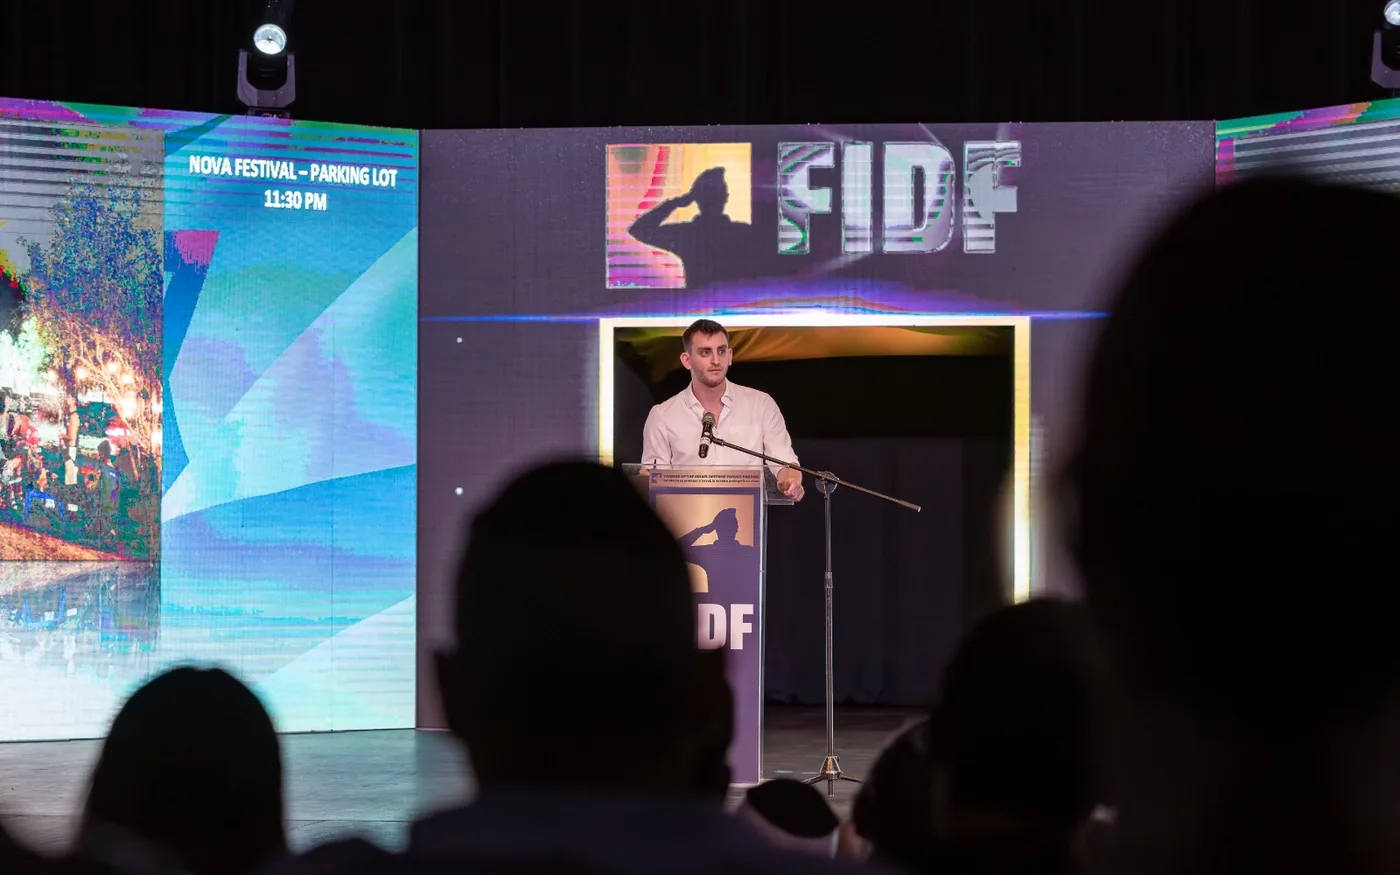
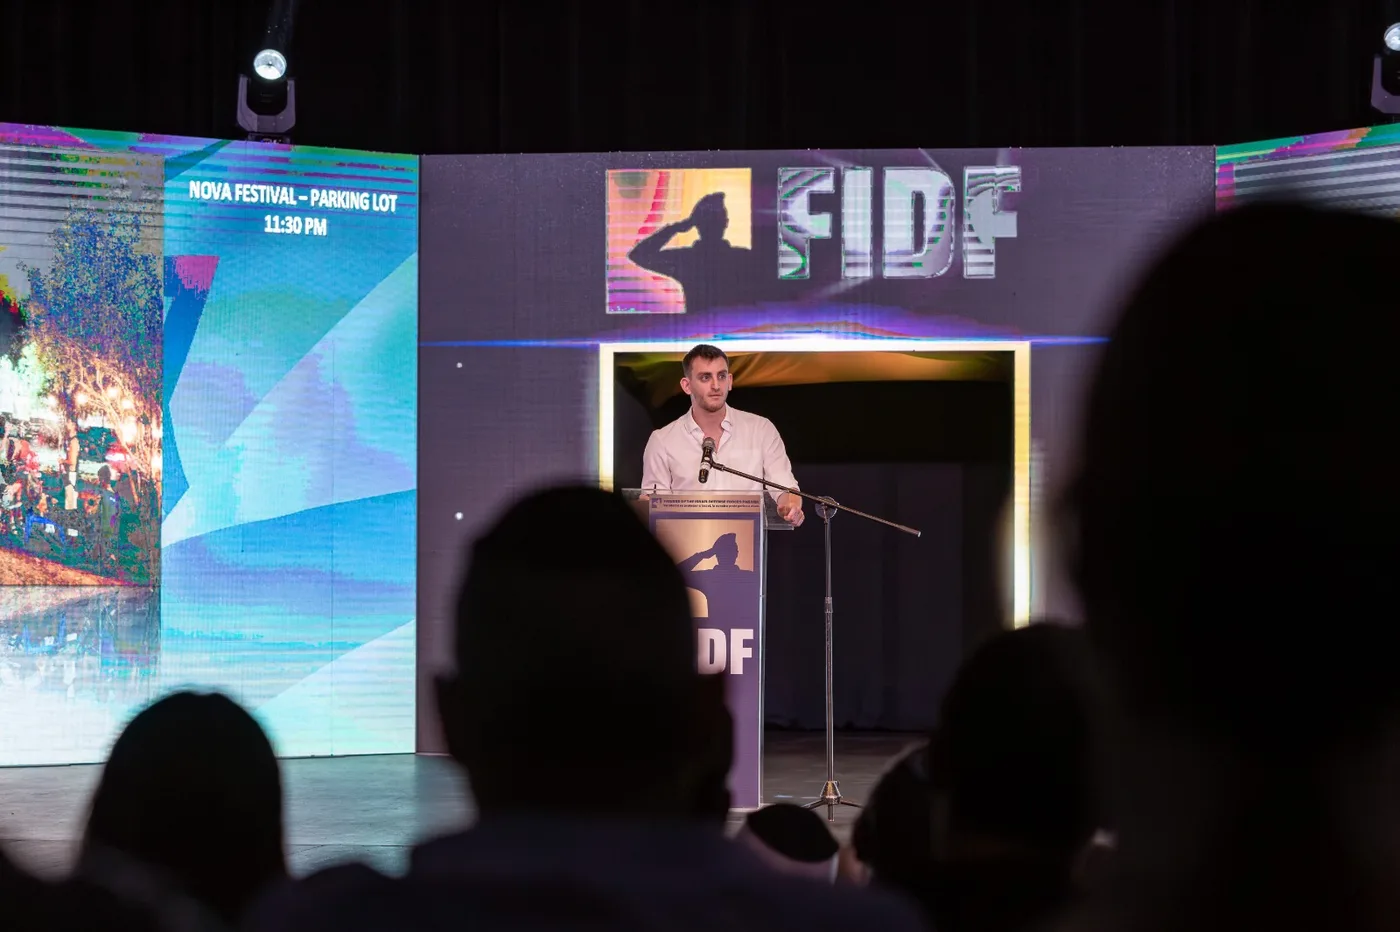
about: photo panels take their photos' real aspect (no cropping) — save v19 re-adopts the cluster; portrait windows show the lead photo only

diff --git a/src/main.js b/src/main.js
@@ -942,8 +942,10 @@ const DEFAULT_BEATS = [
   /* 1 */ { name: 'Hi', stop: 'hi', side: 'left', cam: [1, 53, 33], look: [1, 53, -67], up: [0, 1, 0], fov: 48, dur: 2.1, desc: '', img: '/assets/me/portrait.webp', link: '', fx: { ...VOID_FX }, panel: (() => { const p = P(1, 53, 33, 'left'); p.size = [16, 21.3]; p.pos[1] = 53; return p; })() },
   /* 2 */ { name: 'About', stop: 'about', side: 'right', ease: 'easeOut', cam: [6, 12, 5], look: [6, 12, -95], up: [0, 1, 0], fov: 48, dur: 2.4, desc: '', img: '', link: '', fx: { ...VOID_FX }, panel: null,
            panels: [
-             { img: '/assets/me/speaking-1.webp', ...P(6, 12, 5, 'right') },
-             { img: '/assets/me/speaking-2.webp', ...mkPanel(24, 2, -36, 13, 8.1, [0, -16, 0]) },
+             // v19 (2026-09-16): each panel takes its photo's real aspect so nothing is cropped —
+             // stage 3:2 (28×18.67), memorial 3:4 (8.4×11.2, portrait), lectern detail 16:10
+             { img: '/assets/me/speaking-1.webp', ...(() => { const p = P(6, 12, 5, 'right'); p.size = [28, 18.67]; return p; })() },
+             { img: '/assets/me/speaking-2.webp', ...mkPanel(26, 1.2, -36, 8.4, 11.2, [0, -16, 0]) },
              { img: '/assets/me/speaking-3.webp', ...mkPanel(12, 3, -30, 11, 6.9, [0, -8, 0]) },
            ] },
   /* 3 */ { name: 'Timeline', stop: 'timeline', screens: true, cam: [-8, 8, -21], look: [26, 20, -71], up: [0, 1, 0], fov: 60, dur: 1.6, desc: '', img: '', link: '', fx: { ...VOID_FX }, panel: null },
@@ -1068,6 +1070,13 @@ function load() {
           beats = structuredClone(DEFAULT_BEATS);
           migrated = true;
         }
+        if (!(d.version >= 19)) {
+          // v19 (2026-09-16): About's photo panels take their photos' real aspect
+          // (the memorial shot is portrait). Only the About cluster is re-adopted.
+          const src = DEFAULT_BEATS.find((b) => b.stop === 'about');
+          for (const b of beats) if (b.stop === 'about' && src) b.panels = structuredClone(src.panels);
+          migrated = true;
+        }
         beats.forEach(backfillBeat); // bring older saves up to the current schema
         if (migrated) save();
         return;
@@ -1079,7 +1088,7 @@ function load() {
 }
 function save() {
   const g = {}; for (const k of GLOBAL_KEYS) g[k] = FX[k]; g.ease = txEaseName;
-  try { localStorage.setItem(SAVE_KEY, JSON.stringify({ beats, speed: speedMul, smooth, g, version: 18 })); }
+  try { localStorage.setItem(SAVE_KEY, JSON.stringify({ beats, speed: speedMul, smooth, g, version: 19 })); }
   catch (e) { console.warn('[save]', e); }   // private mode / quota: never let a failed write abort the boot
 }
 // push the global (saved) FX/UX/transition state into the live scene + DOM
@@ -1305,6 +1314,7 @@ function rebuildPanels() {
     for (const x of b.panels || []) {
       if (IS_TOUCH && x !== b.panels[0]) continue;   // phones: the largest photo only
       const mesh = makePanelMesh({ img: x.img, img2: '', panel: x }, i);   // pseudo-beat: drawPanelCanvas reads img + panel
+      mesh.userData.lead = x === b.panels[0];   // the cluster's largest photo — the only one portrait windows show
       panelGroup.add(mesh); extraPanelMeshes.push(mesh);
     }
   });
@@ -2870,8 +2880,10 @@ function animate() {
     if (editMode) { m.material.opacity = 1; m.scale.setScalar(1); }
     else {
       let a = clamp(1 - (camera.position.distanceTo(m.position) - 90) / curFX.panelLightRange, 0, 1); // near = lit
-      if (extra) a *= clamp(1 - Math.abs(_pIdx - m.userData.i), 0, 1);   // a `panels[]` cluster belongs to one stop: fade with it, never bleed into the neighbours
-      else a *= clamp(2 - 2 * Math.abs(_pIdx - i), 0, 1);   // a stop's own panel: full from halfway through the hop in, fully off at any neighbour (the next stop's panel, 115 units on, used to ghost through at ≈ 4 %)
+      if (extra) {
+        a *= clamp(1 - Math.abs(_pIdx - m.userData.i), 0, 1);   // a `panels[]` cluster belongs to one stop: fade with it, never bleed into the neighbours
+        if (!m.userData.lead && isPortrait()) a = 0;             // portrait windows keep the lead photo only (touch never builds the others) — the small ones sat on the About title
+      } else a *= clamp(2 - 2 * Math.abs(_pIdx - i), 0, 1);      // a stop's own panel: full from halfway through the hop in, fully off at any neighbour (the next stop's panel, 115 units on, used to ghost through at ≈ 4 %)
       m.material.opacity = curFX.panelDimFloor + (1 - curFX.panelDimFloor) * a;
       m.scale.setScalar(0.92 + 0.08 * a);
     }

diff --git a/CLAUDE.md b/CLAUDE.md
@@ -152,20 +152,21 @@ folds a second featured project in as a compact row under the links.
 | `index.html` | 390 | Shell, loader, editor panels, JSON-LD, noscript skim path |
 | `public/previews/*.webp` | | teepo · aerocy · shadiez · smartcut · llm-gateway · focus · sabai · kiaras-club (q82, 1400–1600 px wide; the panel canvas is 1024) |
 | `public/assets/hero/` | | Hero screens (SmartCut html + png, Shadiez webp) |
-| `public/assets/me/` | | portrait (beach, tight crop) + 3 About panels: FIDF stage wide, Nova memorial at Re’im, lectern detail — real photos since 2026-09-15 |
+| `public/assets/me/` | | portrait (beach, tight crop) + 3 About panels: FIDF stage 3:2, Nova memorial at Re’im 3:4 (portrait panel), lectern detail 16:10 — uncropped, panels match the photo aspect |
 
 Deps: `three` 0.169, `meshline`, `three.quarks`, `vite` 8. No React.
 
 ### Persistence / migrations
 Path + FX config persists in **localStorage** `voidConfig`, currently **save
-version 18**. Any save below 16 has its beat array replaced wholesale with
+version 19**. Any save below 16 has its beat array replaced wholesale with
 `DEFAULT_BEATS` (the shape changed too much to patch) while the visitor's
 global FX/speed/ease settings are kept; v17 (2026-09-12) then rewrites
 `/previews/*.jpg` → `.webp` in whatever beat array survived (the JPGs are
 gone), leaving any URL pasted in Director Mode alone; v18 (2026-09-14) — Hi /
 About / Timeline replace Hero / Intro / CV, beats gain `panels[]` and
 `screens` — wholesale re-adopts `DEFAULT_BEATS` again (any save `< 18`), same
-global-settings carve-out. The v2–v14 patch migrations were
+global-settings carve-out; v19 (2026-09-16) re-adopts only the About beat's
+`panels[]` (photo panels sized to their real aspect). The v2–v14 patch migrations were
 deleted on 2026-09-12: they only ever ran on beats the v14/v15 reset was about
 to discard. Any future
 `DEFAULT_BEATS` shape change needs its own migration step + version bump,
